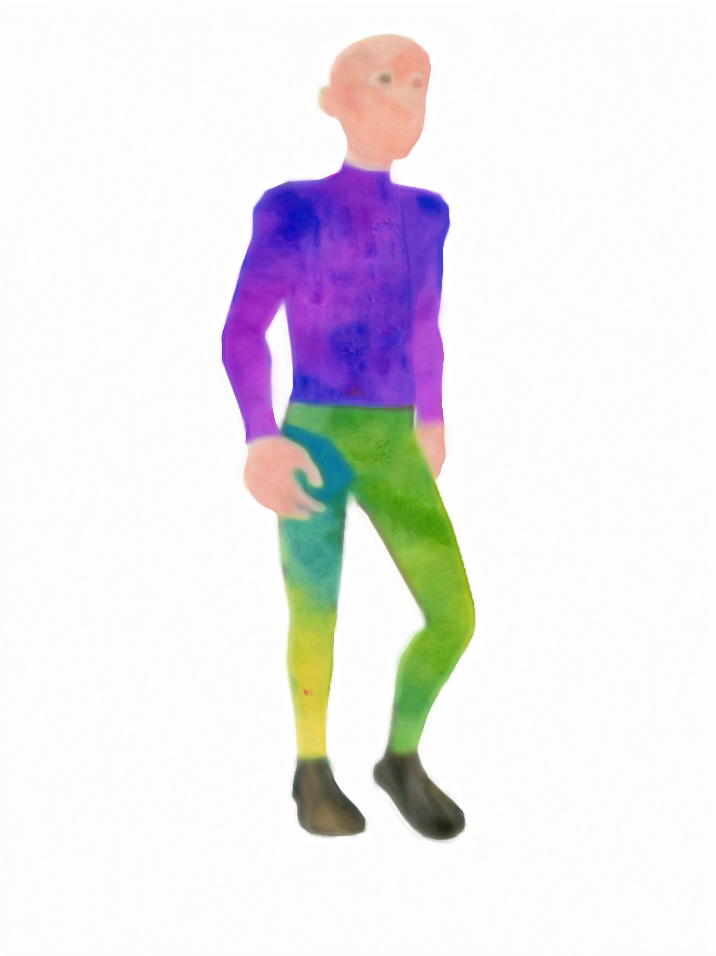
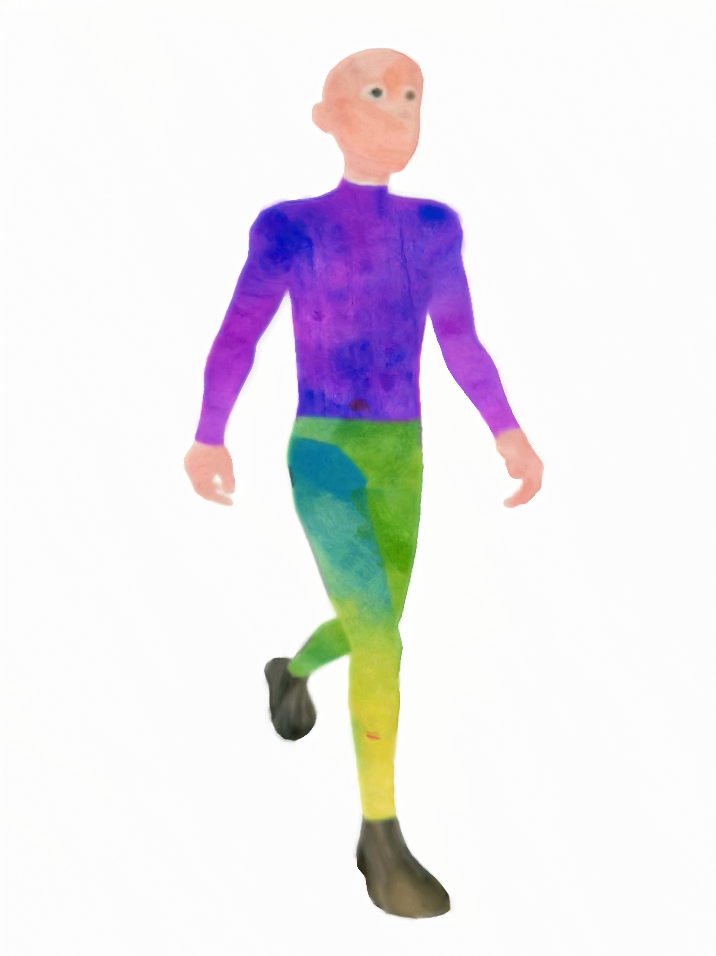
kinda working

Changed region(s): [[0.2458, 0.0303, 0.7682, 0.9707]]

diff --git a/cult.cpp b/cult.cpp
@@ -72,6 +72,20 @@ Image Cult::processFrame(const Image& frame, const Image& prevOutput){
     std::vector<Image> framePyramid = ImagePyramid::make_gaussian_pyramid(frame, FILTER_STRENGTH);
     //std::cout<<"Created frame pyramids"<<std::endl;
 
+
+
+    // Initialize coarsest target level with low-pass filtered reference
+    Image coarsestTarget = framePyramid.back();  // coarsest level
+    // Replace with low-pass filtered version of the reference frame
+    Image filteredRef = ImagePyramid::blur(frame, FILTER_STRENGTH);
+    // Downsample to match coarsest pyramid level dimensions
+    while(filteredRef.width > coarsestTarget.width || filteredRef.height > coarsestTarget.height){
+        filteredRef = ImagePyramid::downsample(filteredRef, FILTER_STRENGTH);
+    }
+    framePyramid.back() = filteredRef;
+
+
+
     Image output_frame = framePyramid.back(); // start at coarsest/most blurred (end of pyramid)
 
     //        //MAIN LOOP
@@ -86,6 +100,7 @@ Image Cult::processFrame(const Image& frame, const Image& prevOutput){
     Image s_deformed = deformImage(m_sourceTexture);
     QString deformed_outPath = QString("../color-me-noisy/debug_pyramid/source_deformed.png");
     ImageUtils::writeImage(s_deformed, deformed_outPath);
+    std::cout<<"Deformed source texture"<<std::endl;
 
     std::vector<Image> sourcePyramid = ImagePyramid::make_gaussian_pyramid(s_deformed, FILTER_STRENGTH);
     // std::cout<<"Created source pyramids"<<std::endl;
@@ -228,12 +243,13 @@ Image Cult::deformImage(const Image& image){
     return arapMLS(image, originalPoints, deformedPoints);
 }
 
-Image Cult::arapMLS(const Image& image, std::vector<Eigen::Vector2f>& originalPoints,
-              std::vector<Eigen::Vector2f>& deformedPoints){
+//Note: switch the order of deformed and original points to get swirls or boxes
+Image Cult::arapMLS(const Image& image, std::vector<Eigen::Vector2f>& deformedPoints,
+              std::vector<Eigen::Vector2f>& originalPoints){
     Image output = image;
     output.pixels.reserve(image.width*image.height);
 
-    float alpha = 2.0f;
+    float alpha = 1.0f;
 
     #pragma omp parallel for
     for(int y = 0; y < image.height; y++){
@@ -244,7 +260,8 @@ Image Cult::arapMLS(const Image& image, std::vector<Eigen::Vector2f>& originalPo
             std::vector<float> weights;
             for(int i = 0; i < originalPoints.size(); i++){
                 Eigen::Vector2f p = originalPoints[i];
-                float w = 1.f / (pow((p-v).norm(), 2.f*alpha));
+                float dist2 = std::max((p - v).squaredNorm(), 1e-6f);
+                float w = 1.f / (pow(dist2, alpha));
                 weights.push_back(w);
                 weightSum += w;
             }
@@ -260,7 +277,7 @@ Image Cult::arapMLS(const Image& image, std::vector<Eigen::Vector2f>& originalPo
             std::vector<Eigen::Vector2f> centeredTargets;
             for(int i = 0; i < originalPoints.size(); i++){
                 Eigen::Vector2f p_hat = originalPoints[i] - p_star;
-                Eigen::Vector2f q_hat = deformedPoints[i] - p_star;
+                Eigen::Vector2f q_hat = deformedPoints[i] - q_star;
 
                 centeredSources.push_back(p_hat);
                 centeredTargets.push_back(q_hat);

diff --git a/image_pyramid.h b/image_pyramid.h
@@ -17,15 +17,17 @@ public:
     static float filter_strength_at_level(float f, int level, int totalLevels);
 
     static Image upsample(const Image& image);
+    static Image blur(const Image& image, float fStrenth);
+    static Image downsample(const Image& image, float fStrength);
 
 private:
     //Set pyramid level for coarse consistency
     static void set_level(std::vector<Image>& pyramid, int level, const Image& image);
 
 
-    static Image blur(const Image& image, float fStrenth);
+
     static float pixWeight(int xdiff, int ydiff, float sigma); // sigma = blur strength
-    static Image downsample(const Image& image, float fStrength);
+
 
 };
 

diff --git a/image_pyramid.cpp b/image_pyramid.cpp
@@ -8,7 +8,7 @@ std::vector<Image> ImagePyramid::make_gaussian_pyramid(Image image, float filter
     //Do we determine num levels in here or explicitly in cult?
 //    int numLevels = num_levels(image, filterStrength);
 
-    int numLevels = 3;
+    int numLevels = num_levels(image, filterStrength);
     
     for(int i = 0; i < numLevels; i++){
         //get filter strength at level by calling that func? then can pass a filter strenhgth

diff --git a/cult.h b/cult.h
@@ -39,9 +39,9 @@ private:
 
     Image vote(const Image& target, const Image& source, NNF& nnf);
     
-    const int PATCH_RADIUS = 5;
+    const int PATCH_RADIUS = 3;
     const int PATCHMATCH_ITERATIONS = 4;
-    const float FILTER_STRENGTH = 2.0;
+    const float FILTER_STRENGTH = 3;
     const int GRID_SIZE = 50;
 };
 
